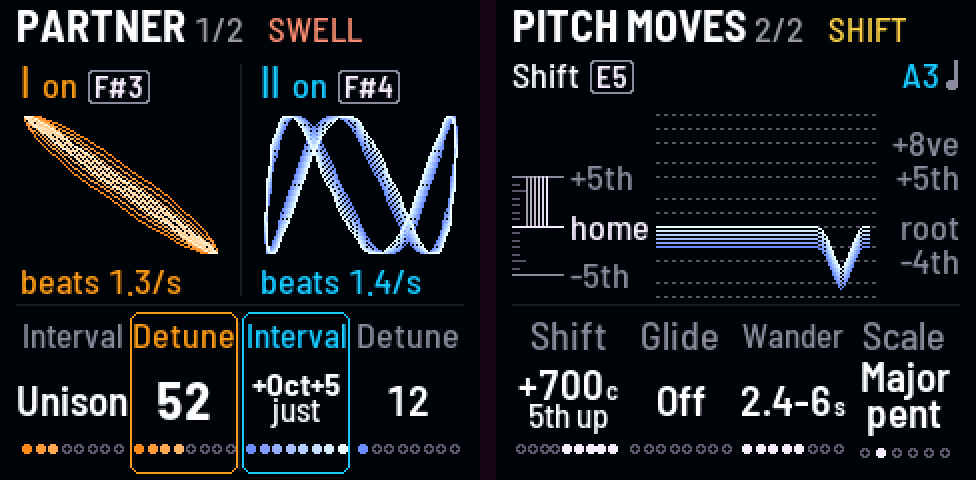
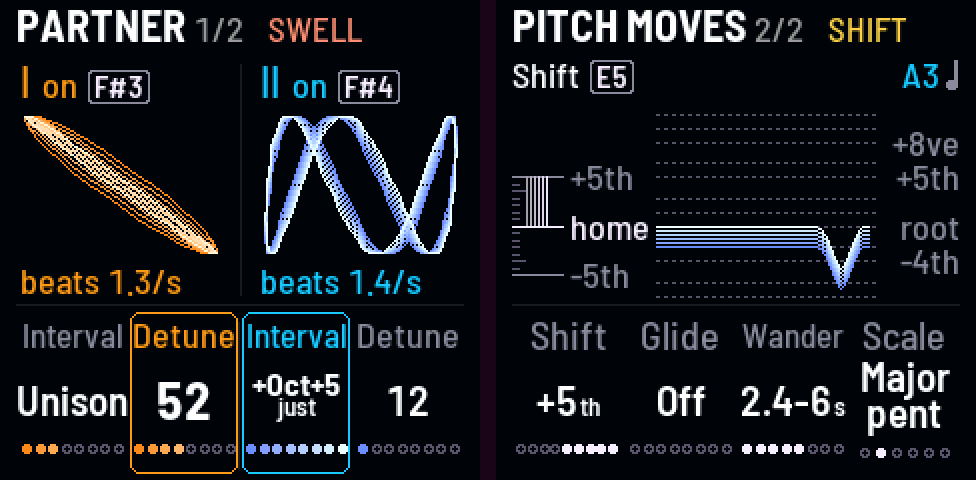
Partner and Shift follow the Tuning (ledger 8): a partner's interval is the Tuning's over its drone; Shift's knob steps from note to note of the Tuning (SEL: a cent), named by its interval ("+5th", "-4th"), a move off the notes kept in cents; the word under a value at its units' size across the firm

Changed region(s): [[0.5225, 0.75, 0.6455, 0.9062], [0.2766, 0.8125, 0.3381, 0.9062]]

diff --git a/firmware/src/dsp/drone.c b/firmware/src/dsp/drone.c
@@ -668,17 +668,68 @@ static int chord_vi;
  * Partch, Harmonics): the Tuning's note nearest j over drone I's. From drone I's nearest note on a fixed grid; on a
  * movable one (Just, Shruti) from drone I itself, so pure over it */
 static int grid_near_a(int t, int v) { return dr_grid_at(t, dr_grid_k(t, v, 900), 900); }   /* on A */
-float dr_tun_iv(float cur, int j)
+/* ... and over drone g (Partner and Shift follow the Tuning too, Evan 2026-11-07): from drone g's nearest note, on
+ * the grid as Wander's (a movable Tuning still built on drone I) */
+float dr_tun_over(int g, float cur, int j)
 {
     int t = tun_ok(base[P_TUNING]), p1 = base[DR_GP(0, GP_PITCH)], root, k, g1;
     if (t == DR_TUN_12 || t == DR_TUN_24)
         return cur;
     root = DR_TUN_MOVES(t) ? p1 : 900;
-    k = dr_grid_k(t, p1, root);
+    k = dr_grid_k(t, base[DR_GP(g & 1, GP_PITCH)], root);
     g1 = dr_grid_at(t, k, root);
     if (dr_tun_n(t) == 12)
         return (float)(dr_grid_at(t, k + (int)fm_floorf(cur + 0.5f), root) - g1) * 0.01f;
     return (float)(dr_grid_at(t, dr_grid_k(t, g1 + j, root), root) - g1) * 0.01f;
+}
+float dr_tun_iv(float cur, int j) { return dr_tun_over(0, cur, j); }
+/* the partner's interval as heard, semitones: on 12-tone and Quarter as picked (tempered or just); on another Tuning
+ * the Tuning's interval over drone g, from the interval's pure size (both "+5th" and "+5th just" its fifth) */
+static const int16_t IV_J[DR_NINTERVALS] = {-1200, -702, -702, -498, -498, 0, 316, 316, 386, 386, 498, 498, 702, 702,
+                                            1200, 1902, 1902};
+float dr_partner_semi(int g, int iv)
+{
+    const int t = tun_ok(base[P_TUNING]);
+    iv = (unsigned)iv < DR_NINTERVALS ? iv : DR_IV_UNISON;
+    if (t == DR_TUN_12 || t == DR_TUN_24)
+        return DR_IV_SEMI[iv];
+    return dr_tun_over(g, fm_floorf(DR_IV_SEMI[iv] + 0.5f), IV_J[iv]);
+}
+/* SHIFT along the Tuning (Evan, 2026-11-07): its knob steps from note to note of the Tuning over drone I (SEL: a cent,
+ * off the notes); on a note the move is so many of the Tuning's notes, and each drone moves that many from its own
+ * nearest note; off a note, its cents (an older sound's +700c on 19-tone stays 700c) */
+static int shift_root(int t, int p1) { return DR_TUN_MOVES(t) ? p1 : 900; }
+int dr_shift_on(int t, int p1, int ct)               /* 1: ct (cents) is a note of the Tuning over drone I (p1) */
+{
+    const int r = shift_root(t, p1), g1 = dr_grid_at(t, dr_grid_k(t, p1, r), r);
+    return dr_grid_at(t, dr_grid_k(t, g1 + ct, r), r) == g1 + ct;
+}
+int dr_shift_step(int t, int p1, int ct, int n)      /* n notes on from ct (to the next note first), within +-700 */
+{
+    const int r = shift_root(t, p1), g1 = dr_grid_at(t, dr_grid_k(t, p1, r), r);
+    int k = dr_grid_k(t, g1 + ct, r), at = dr_grid_at(t, k, r) - g1, v;
+    if (n > 0 && at > ct)                            /* off a note: its nearest in the turn's way counts as one */
+        n--;
+    else if (n < 0 && at < ct)
+        n++;
+    v = dr_grid_at(t, k + n, r) - g1;
+    while (v > 700)
+        v = dr_grid_at(t, --k + n, r) - g1;
+    while (v < -700)
+        v = dr_grid_at(t, ++k + n, r) - g1;
+    return v;
+}
+float dr_shift_semi(int g)
+{
+    const int t = tun_ok(base[P_TUNING]), p1 = base[DR_GP(0, GP_PITCH)], ct = base[P_SHIFT_MOVE] - DR_SHIFT_MID;
+    int r, k1, kt, kg;
+    if (t == DR_TUN_12 || t == DR_TUN_24 || !dr_shift_on(t, p1, ct))
+        return (float)ct * 0.01f;
+    r = shift_root(t, p1);
+    k1 = dr_grid_k(t, p1, r);
+    kt = dr_grid_k(t, dr_grid_at(t, k1, r) + ct, r);
+    kg = dr_grid_k(t, base[DR_GP(g & 1, GP_PITCH)], r);
+    return (float)(dr_grid_at(t, kg + kt - k1, r) - dr_grid_at(t, kg, r)) * 0.01f;
 }
 static const float CHORD_T[DR_NWSCALE][2] = {
     {3.15641f, 10.17596f}, {3.86314f, 8.84359f}, {7.01955f, 12.0f}, {4.0f, 8.0f}, {3.15641f, 8.84359f}, {3.86314f, 9.68826f}};
@@ -1090,7 +1141,7 @@ static void mv_add(const move_t *v, float l, float *off, uint8_t *on, float *pm,
     case MK_ZERO: off[v->p] -= (float)base[v->p] * l * (v->d ? (float)v->d * 0.01f : 1.0f); break;
     case MK_TO: off[v->p] += fm_maxf((float)(v->d - base[v->p]), 0.0f) * l; break;
     case MK_DOWN: off[v->p] += fm_minf((float)(v->d - base[v->p]), 0.0f) * l; break;
-    case MK_SHIFT: pm[v->p] += (float)(base[P_SHIFT_MOVE] - DR_SHIFT_MID) * 0.01f * l; break;
+    case MK_SHIFT: pm[v->p] += dr_shift_semi(v->p) * l; break;
     case MK_PULSE: off[v->p] += (float)v->d * l * (0.5f - 0.5f * fm_cosf(6.2831853f * mac_ph)); *flags |= 2; break;
     case MK_WOW: {                               /* two slow sines a drone, apart (wow: +-AGE_WOW cents at full), and two
                                                   * quick ones (flutter, 5.7 and 8.9 Hz: +-4 cents) */
@@ -1837,8 +1888,8 @@ static void render_group(int g, uint32_t n)
     const float dw = pfs[P_DRIFT] * 0.01f;
     const int iv = (unsigned)p[GP_INTERVAL] < DR_NINTERVALS ? p[GP_INTERVAL] : DR_IV_UNISON;
     /* the partner's interval: tempered, or just (pure ratios, so a fifth or a third doesn't beat; Detune
-     * still adds beating on purpose) */
-    const float ival = v->ovon ? v->ov : DR_IV_SEMI[iv];
+     * still adds beating on purpose); on another Tuning, the Tuning's (dr_partner_semi) */
+    const float ival = v->ovon ? v->ov : dr_partner_semi(g, iv);
     const float detune = pv[GP_DETUNE] * 0.003f;            /* semitones: 30 cents at 100 */
     /* Unison with no Detune is one fat oscillator: the partner is pulled into phase with the main (~25 ms),
      * so it can't sit half a cycle out and cancel it (it did: -20 dB, depending on what came before), and

diff --git a/firmware/src/app/look.c b/firmware/src/app/look.c
@@ -1220,7 +1220,7 @@ static void lk_pic_partner(void)
     for (g = 0; g < DR_NGROUPS; g++) {
         const int32_t x0 = g ? 130 : 10, cx = x0 + 50, base = 2 + LK_B(LK_F_DRONE);
         const int on = gpar(g, GP_PARTNER) != 0, iv = gpar(g, GP_INTERVAL);
-        const float semi = DR_IV_SEMI[(unsigned)iv < DR_NINTERVALS ? iv : DR_IV_UNISON];
+        const float semi = dr_partner_semi(g, iv);   /* as heard: on a Tuning, the Tuning's interval */
         const float r = fm_exp2f((semi + (float)gpar(g, GP_DETUNE) * 0.003f) / 12.0f);
         const float f1 = 8.1757989f * fm_exp2f(dr_pitch[g] / 12.0f);
         float beat, fan;
@@ -2277,6 +2277,8 @@ static void lk_swing(char *q, float x, const char *unit)   /* "±3.6 oct", "±12
     scopy(q, unit);
 }
 
+/* on a Tuning other than 12-tone and Quarter */
+static int lk_tuned(void) { return proj.par[P_TUNING] != DR_TUN_12 && proj.par[P_TUNING] != DR_TUN_24; }
 static int lk_line2(int p, int v, char *t, char *t2)
 {
     const int gp = p < P_XMOD ? p % GP_N : -1;
@@ -2300,9 +2302,14 @@ static int lk_line2(int p, int v, char *t, char *t2)
         }
         return 1;
     }
-    if (gp == GP_INTERVAL) {                   /* "+5th just": "just" under it */
+    if (gp == GP_INTERVAL) {                   /* "+5th just": "just" under it; on a Tuning the name alone (that
+                                                * Tuning's fifth: tempered or just means nothing there) */
         for (q = t; *q && *q != ' '; q++)
             ;
+        if (lk_tuned()) {
+            *q = 0;
+            return 0;
+        }
         if (*q) {
             *q = 0;
             scopy(t2, q + 1);
@@ -2318,14 +2325,21 @@ static int lk_line2(int p, int v, char *t, char *t2)
         }
         q = t;
         *q++ = ct < 0 ? '-' : '+';
+        if (dr_shift_on(proj.par[P_TUNING], proj.par[DR_GP(0, GP_PITCH)], ct)) {
+            /* on a note of the Tuning: its interval by name (Evan, 2026-11-07), the nearest 12-tone one: on 19-tone
+             * "+5th" is 19-tone's fifth */
+            static const char *const N[8] = {"", "m2", "M2", "m3", "M3", "4th", "tritone", "5th"};
+            const int n = (a + 50) / 100;
+            scopy(q, N[n < 8 ? n : 7]);
+            if (!n)                            /* a quarter tone or less: its cents */
+                goto cents;
+            return 0;
+        }
+cents:
         itoa_u((uint32_t)a, q);
         while (*q)
             q++;
         scopy(q, "c");
-        if (a == 700 || a == 500) {
-            scopy(scopy(t2, a == 700 ? "5th " : "4th "), ct < 0 ? "down" : "up");
-            return 1;
-        }
         return 0;
     }
     if (p == P_WSCALE) {                       /* "Minor / pent", "5ths + / 8ves" */
@@ -2568,9 +2582,11 @@ static void lk_values(void)
                             why ? LK_LABEL : LK_WHITE);
             }
         }
-        if (mode == 1)
+        if (mode == 1)                  /* the word under a value at its units' size, as the "c" in "+700c"
+                                                * and the "th" in "+5th" ("just", "pulse"; Evan,
+                                                * 2026-11-07: smaller, across the firmware); Sync's line keeps its */
             text_c(cx, p == P_CLK_SYNC ? 78 - LK_B(LK_F_TAG) : y + (int32_t)fb->h - 6,
-                   text_w(&LK_F_TAG, t2) <= 54 ? &LK_F_TAG : &FONT_U2, t2,
+                   p != P_CLK_SYNC || text_w(&LK_F_TAG, t2) > 54 ? &FONT_U2 : &LK_F_TAG, t2,
                    p == P_CLK_SYNC && !clk.following ? LK_LABEL : LK_WHITE);   /* Sync: the tempo white, else gray;
                                                                                 * "keeps 120" smaller to fit */
         if (p == P_CLK_SYNC)                   /* no meter: its line says it (the board) */

diff --git a/tests/host/drone_test.c b/tests/host/drone_test.c
@@ -254,6 +254,50 @@ int main(void)
         }
         check("Wander's and Chord's notes on each Tuning", ok);
     }
+    {   /* PARTNER's and SHIFT's intervals on the Tuning (Evan, 2026-11-07): 12-tone and Quarter as picked; on another
+         * Tuning its interval over the drone, from the pure size ("+5th" and "+5th just" alike) */
+        struct { int tun, g, p, iv, shift; float want; const char *what; } c[] = {
+            {DR_TUN_12, 0, 5000, 12, 0, 7.0f, "12-tone: +5th tempered"},
+            {DR_TUN_12, 0, 5000, 13, 0, 7.01955f, "12-tone: +5th just"},
+            {DR_TUN_24, 1, 5700, 9, 0, 3.86314f, "Quarter: +M3 just as picked"},
+            {DR_TUN_19, 0, 5000, 12, 0, 6.947f, "19-tone: +5th is 11 steps (695c)"},
+            {DR_TUN_19, 1, 5700, 13, 0, 6.947f, "19-tone: +5th just the same"},
+            {DR_TUN_JUST, 0, 5037, 12, 0, 7.01955f, "Just over drone I anywhere: 3/2"},
+            {DR_TUN_JUST, 1, 5737, 8, 0, 3.86314f, "Just, drone II a 5th over I: +M3 is 15/8 over I (5/4 of 3/2)"},
+            {DR_TUN_53, 0, 5700, 6, 0, 3.17f, "53-tone: +m3 the nearest to 6/5, 14 steps"},
+            {DR_TUN_LMY, 1, 5700, 12, 0, 7.02f, "LMY on A, drone II on A: +5th is 3/2"},
+            {DR_TUN_12, 0, 5000, 0, 700, 7.0f, "Shift on 12-tone: 700c"},
+            {DR_TUN_19, 0, 5000, 0, 695, 6.947f, "Shift on 19-tone's fifth: 11 steps"},
+            {DR_TUN_19, 0, 5000, 0, 700, 7.0f, "Shift +700c on 19-tone, off its notes: 700c as before"},
+            {DR_TUN_JUST, 0, 5037, 0, 316, 3.16f, "Shift on Just's 6/5 over drone I"},
+            {DR_TUN_JUST, 0, 5037, 0, 340, 3.40f, "Shift +340c on Just, off its notes: 340c"},
+        };
+        int k, ok = 1;
+        dr_init();
+        for (k = 0; k < (int)(sizeof c / sizeof c[0]); k++) {
+            float v;
+            dr_set(P_TUNING, c[k].tun);
+            dr_set(DR_GP(0, GP_PITCH), c[k].g ? 5000 : c[k].p);
+            dr_set(DR_GP(1, GP_PITCH), c[k].p);
+            if (c[k].g && c[k].tun == DR_TUN_JUST)
+                dr_set(DR_GP(0, GP_PITCH), 5037);
+            dr_set(P_SHIFT_MOVE, DR_SHIFT_MID + c[k].shift);
+            dr_render(buf, 256, 3277);
+            v = c[k].shift ? dr_shift_semi(c[k].g) : dr_partner_semi(c[k].g, c[k].iv);
+            if (fabsf(v - c[k].want) > 0.006f) {
+                printf("    %s: %.4f, not %.4f\n", c[k].what, (double)v, (double)c[k].want);
+                ok = 0;
+            }
+        }
+        dr_set(P_SHIFT_MOVE, DR_SHIFT_MID);
+        check("Partner's and Shift's intervals on each Tuning", ok);
+        check("Shift's knob along the notes: 12-tone 500 +1 is 600, 700 +1 stays 700 (the end)",
+              dr_shift_step(DR_TUN_12, 5000, 500, 1) == 600 && dr_shift_step(DR_TUN_12, 5000, 700, 1) == 700);
+        check("... 19-tone 0 +11 is its fifth (695); off a note (700) -1 lands on 695",
+              dr_shift_step(DR_TUN_19, 5000, 0, 11) == 695 && dr_shift_step(DR_TUN_19, 5000, 700, -1) == 695);
+        check("... -700 -1 stays within the range; Just over drone I: 0 +7 is 3/2 (702 is past 700: 6 notes, 4/3+)",
+              dr_shift_step(DR_TUN_12, 5000, -700, -1) == -700 && dr_shift_on(DR_TUN_JUST, 5037, dr_shift_step(DR_TUN_JUST, 5037, 0, 7)));
+    }
     dry_init();
     run(secs(1.0f));
     check("silent before PLAY", nonzero == 0);

diff --git a/firmware/src/dsp/drone.h b/firmware/src/dsp/drone.h
@@ -178,6 +178,11 @@ int dr_wander_degs(float *deg);                /* Wander's scale over drone I, o
                                                 * (up to 8; the screen) */
 float dr_tun_iv(float cur, int j);             /* a scale's note on the Tuning over drone I, semitones:
                                                 * cur on 12-tone, j its pure size, cents (Wander, Chord; tests) */
+float dr_tun_over(int g, float cur, int j);    /* ... over drone g */
+float dr_partner_semi(int g, int iv);          /* drone g's partner interval iv as heard on the Tuning, semitones */
+float dr_shift_semi(int g);                    /* Shift's move as heard over drone g on the Tuning, semitones */
+int dr_shift_on(int t, int p1, int ct);        /* Shift's ct (cents) a note of Tuning t over drone I (p1) */
+int dr_shift_step(int t, int p1, int ct, int n);   /* ... n of its notes on, within +-700 */
 int dr_heard(int p);                           /* a value as heard: the sound's own plus the macros (tests) */
 float dr_mac_pitch(int g);                     /* drone g's pitch move by the macros now, semitones (tests) */
 float dr_gest_pitch(int g);                    /* ... by the gestures alone (Shift's; the screen) */

diff --git a/firmware/src/app/ui.c b/firmware/src/app/ui.c
@@ -438,7 +438,12 @@ static void cont_turn(int p, int role, int32_t s)
         }
     }
     dr_pslide(p, (int)slide);
-    param_set(p, proj.par[p] + steps);
+    if (p == P_SHIFT_MOVE && !(ui.btn >> B_SEL & 1u))   /* SHIFT along the Tuning's notes (Evan, 2026-11-07): a
+                                                        * detent the next note over drone I; SEL, a cent */
+        param_set(p, DR_SHIFT_MID + dr_shift_step(proj.par[P_TUNING], proj.par[DR_GP(0, GP_PITCH)],
+                                                  proj.par[p] - DR_SHIFT_MID, steps / 10));
+    else
+        param_set(p, proj.par[p] + steps);
     loop_note(p, proj.par[p], slide);
 }
 

diff --git a/README.md b/README.md
@@ -331,7 +331,9 @@ pink specks are as many as Color says.
 | Pitch moves | Shift's move | pitch glide | II wander | Wander's scale |
 
 - **Shift's move** is where the Shift gesture takes the drones: from a fifth down through none in the middle to a
-  fifth up, 10 cents a detent, 1 with SEL held; it lights while Shift (E5) is in. See [The gestures](#the-gestures).
+  fifth up, a note of the Tuning a detent (on 12-tone a semitone), named by its interval ("+5th", "-4th", "+m3"; on
+  another Tuning, that Tuning's own fifth, fourth, third); with SEL held, a cent a detent, off the notes ("+503c"); it
+  lights while Shift (E5) is in. See [The gestures](#the-gestures).
 - **Wander** gives drone II a slow random melody: it jumps from note to note in no order, the notes of a scale on
   drone I (in any octave, up to an octave from its own pitch), and only now and then comes home. The knob is **how
   often**, at random times within a range: 25–30 s apart at the bottom, 0.5–2 s at the top; the screen shows the
@@ -350,7 +352,9 @@ pink specks are as many as Color says.
   as fast as it beats ("beats 2.0/s"); a just interval with no detune stands still. Beside each drone's name, whether
   its partner is on and the black key that switches it (F#3 for drone I, F#4 for drone II).
 - Each **interval** comes twice: tempered, then **just** ("+5th just"), a pure ratio (a fifth is exactly 3/2) that
-  doesn't beat; detune still adds beating on purpose. Octaves and unison are both at once.
+  doesn't beat; detune still adds beating on purpose. Octaves and unison are both at once. On a Tuning other than
+  12-tone and Quarter, both are the Tuning's own interval (a 19-tone fifth is 695 cents), and the value shows only its
+  name.
 
 #### LFO · LFO
 
@@ -498,6 +502,9 @@ Everything on GLO belongs to the FM-1 and the room, not to a sound: scenes don't
     other 12-note Tunings (Just, LMY, Harrison) Wander's scale plays the same keys, so a minor pentatonic on LMY takes
     LMY's own intervals; on the rest, each note is the Tuning's nearest to the pure interval (a 31-tone minor third is
     310 cents). On Harmonics, Wander moves between all the harmonics, whatever the scale.
+  - **So do Partner and Shift.** A partner's interval is the Tuning's, over its own drone; Shift's knob steps from
+    note to note of the Tuning over drone I, and each drone moves as many of the Tuning's notes from its own. A Shift
+    set off the notes (with SEL, or a sound from before) moves its cents exactly.
   - It only decides where a turn goes: a sound or scene plays its pitches as they were saved, until you turn the knob
     (the first click goes to the Tuning's next note).
 

diff --git a/docs/decisions.md b/docs/decisions.md
@@ -54,6 +54,13 @@ at the end. The current state is in the [README](../README.md) and the code.
 - 2026-10-07: the Ultra LFO: one rate, two taps (Wave I, Wave II) of Off + 7 shapes + random, routed per drone
   to pitch or X-WAVE and to cutoff or resonance, with bipolar depths. 2026-10-14: rate 0.02 Hz (a cycle in 50 s,
   the DS-2's slowest) .. 70 Hz; longer arcs come from Scene switch and the motion loop.
+- 2026-11-07: Partner and Shift follow the Tuning (ledger item 8), as Wander and Chord since #63: on a Tuning other
+  than 12-tone and Quarter a partner's interval is the Tuning's over its drone, from the interval's pure size
+  ("+5th" and "+5th just" the same; the value shows the name alone); Shift's knob steps from note to note of the
+  Tuning over drone I (SEL: a cent, off the notes), named by the nearest 12-tone interval ("+5th", "-4th", "+m3"; Evan:
+  "700 -> 695 seems weird"), each drone moving as many notes from its own; a move off the notes stays exact cents.
+  Drift stays (a wobble, not an interval). The word under a value at its units' size (13 px, as the "c" in "+503c";
+  Evan: smaller, across the firmware).
 - 2026-11-07: the LFO's slowest rate a cycle in 100 s (0.01 Hz, as the Sub 37's slowest; was 50 s), the top still
   70 Hz, the slow rates given most of the dial (Evan: a drone synth is about slow changes; then, on the FM-1, each
   second on the dial): 0..152, a click a second from 100 s to 10 s (v 0..90), then 62 steps of the same size (10 s to
